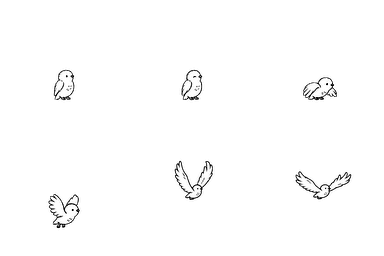
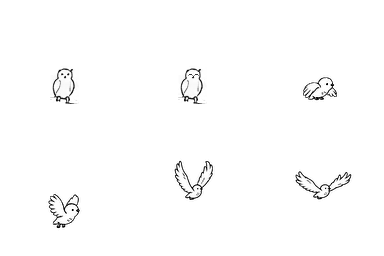
Owl: perched, it is the invitation's own owl
The animated owl was a different bird from the one on the drawing people see while
the page loads (round head in profile, against ear tufts and a face turned to us).
import_assets.py now cuts the invite's owl out for the perched frames (rest, blink,
just settled). The flying frames are still the pack's.

Changed region(s): [[0.125, 0.25, 0.2188, 0.4062], [0.4688, 0.25, 0.5312, 0.4062]]

diff --git a/tools/import_assets.py b/tools/import_assets.py
@@ -9,6 +9,7 @@ high-quality reduction. Along the way, a few corrections (all listed in FIXES be
     (house and trees, measured on public/assets/trees/background.png): the same mean ink darkness
     and the same stroke width, with one tone curve per character, then each frame levelled to the
     same darkness so no frame looks paler than its neighbours.
+  - owl: perched, it is the invitation's own owl, cut out of the invite (see invite_owl).
   - register: in the deer's walk cycle the body slides ±7 px back and forth (the frames are
     aligned on the feet), which makes the walk judder. Those frames are re-centred on the body.
   - scale: three couple frames (lean in, kiss, smile) drawn ~4 % smaller are brought back to size.
@@ -25,7 +26,7 @@ import sys
 from pathlib import Path
 
 import numpy as np
-from PIL import Image
+from PIL import Image, ImageDraw, ImageFilter
 
 FIXES = {
     "deer":   {"register": range(4, 12)},
@@ -121,6 +122,43 @@ def repen(frames, dark, width):
     return out, gamma, k
 
 
+def invite_owl(blink=False):
+    """The owl as it is drawn on the invitation (ear tufts, facing us), cut out of the invite as a
+    128 px cell with its feet on the anchor: the perched owl is then the very same one people see
+    on the still drawing while the page loads. Paper white inside, transparent outside.
+    blink: the two eye dots replaced by two short closed-eye strokes."""
+    FEET, ANCHOR = (315, 301), (64, 100)                # where it sits in the drawing; the cell's anchor
+    x0, y0 = FEET[0] - ANCHOR[0], FEET[1] - ANCHOR[1]
+    box = (x0, y0, x0 + CELL, y0 + CELL)
+    inv = np.asarray(Image.open(site / "public/assets/invite-original.webp").convert("RGBA").crop(box))
+    bg = np.asarray(Image.open(trees / "background.png").convert("RGBA").crop(box))
+    # the owl's own ink: what the invite has that the owl-less background doesn't, around the owl
+    d = np.clip(darkness(inv) - darkness(bg), 0, 1)
+    keep = np.zeros_like(d, bool)
+    keep[266 - y0:306 - y0, 301 - x0:330 - x0] = True
+    d[~keep] = 0
+    # its silhouette: the outline closed (the pen lifts here and there), and everything inside it
+    line_ = Image.fromarray(((d > 0.2) * 255).astype(np.uint8))
+    closed = line_.filter(ImageFilter.MaxFilter(5)).filter(ImageFilter.MinFilter(5))
+    flood = closed.copy()
+    ImageDraw.floodfill(flood, (0, 0), 128)
+    inside = np.asarray(flood) != 128
+    # its feet grip the branch, whose line the background has too: there, take the invite's ink as it is
+    feet = np.zeros_like(inside)
+    feet[295 - y0:306 - y0] = True
+    d = np.where(inside & feet, darkness(inv), d)
+    if blink:
+        eyes = [(313, 275), (319, 275)]
+        for ex, ey in eyes:
+            d[ey - y0 - 2:ey - y0 + 3, ex - x0 - 2:ex - x0 + 3] = 0
+        for ex, ey in eyes:                              # a short stroke, a touch lower at its ends
+            d[ey - y0, ex - x0 - 1:ex - x0 + 2] = 0.8
+            d[ey - y0 + 1, [ex - x0 - 2, ex - x0 + 2]] = 0.45
+    alpha = np.maximum(inside.astype(float), d)
+    grey = PAPER * (1 - np.divide(d, alpha, out=np.zeros_like(d), where=alpha > 0))
+    return np.dstack([grey, grey, grey, alpha * 255]).round().astype(np.uint8)
+
+
 # the drawing's own pen: what every character is matched to
 PEN = line([darkness(np.asarray(Image.open(trees / "background.png").convert("RGBA")))])
 print(f"the drawing: ink {PEN[0]:.3f}, stroke {PEN[1]:.2f} px")
@@ -167,6 +205,11 @@ for name, a in assets.items():
     after = line([darkness(f) for f in frames])
     print(f"{name}: ink {before[0]:.3f} → {after[0]:.3f}, stroke {before[1]:.2f} → {after[1]:.2f} px "
           f"(curve x{k:.2f}, gamma {gamma:.2f})")
+
+    if name == "owl":
+        # perched, it is the invitation's own owl (0 at rest, 1 blinking, 15 just settled); the pack's
+        # perched owl was a different bird (round head, in profile)
+        frames[0], frames[1], frames[15] = invite_owl(), invite_owl(blink=True), invite_owl()
 
     for s, sheet_path in enumerate(a["sheets"]):
         sheet = Image.new("RGBA", (COLS * CELL, ROWS * CELL), (0, 0, 0, 0))
